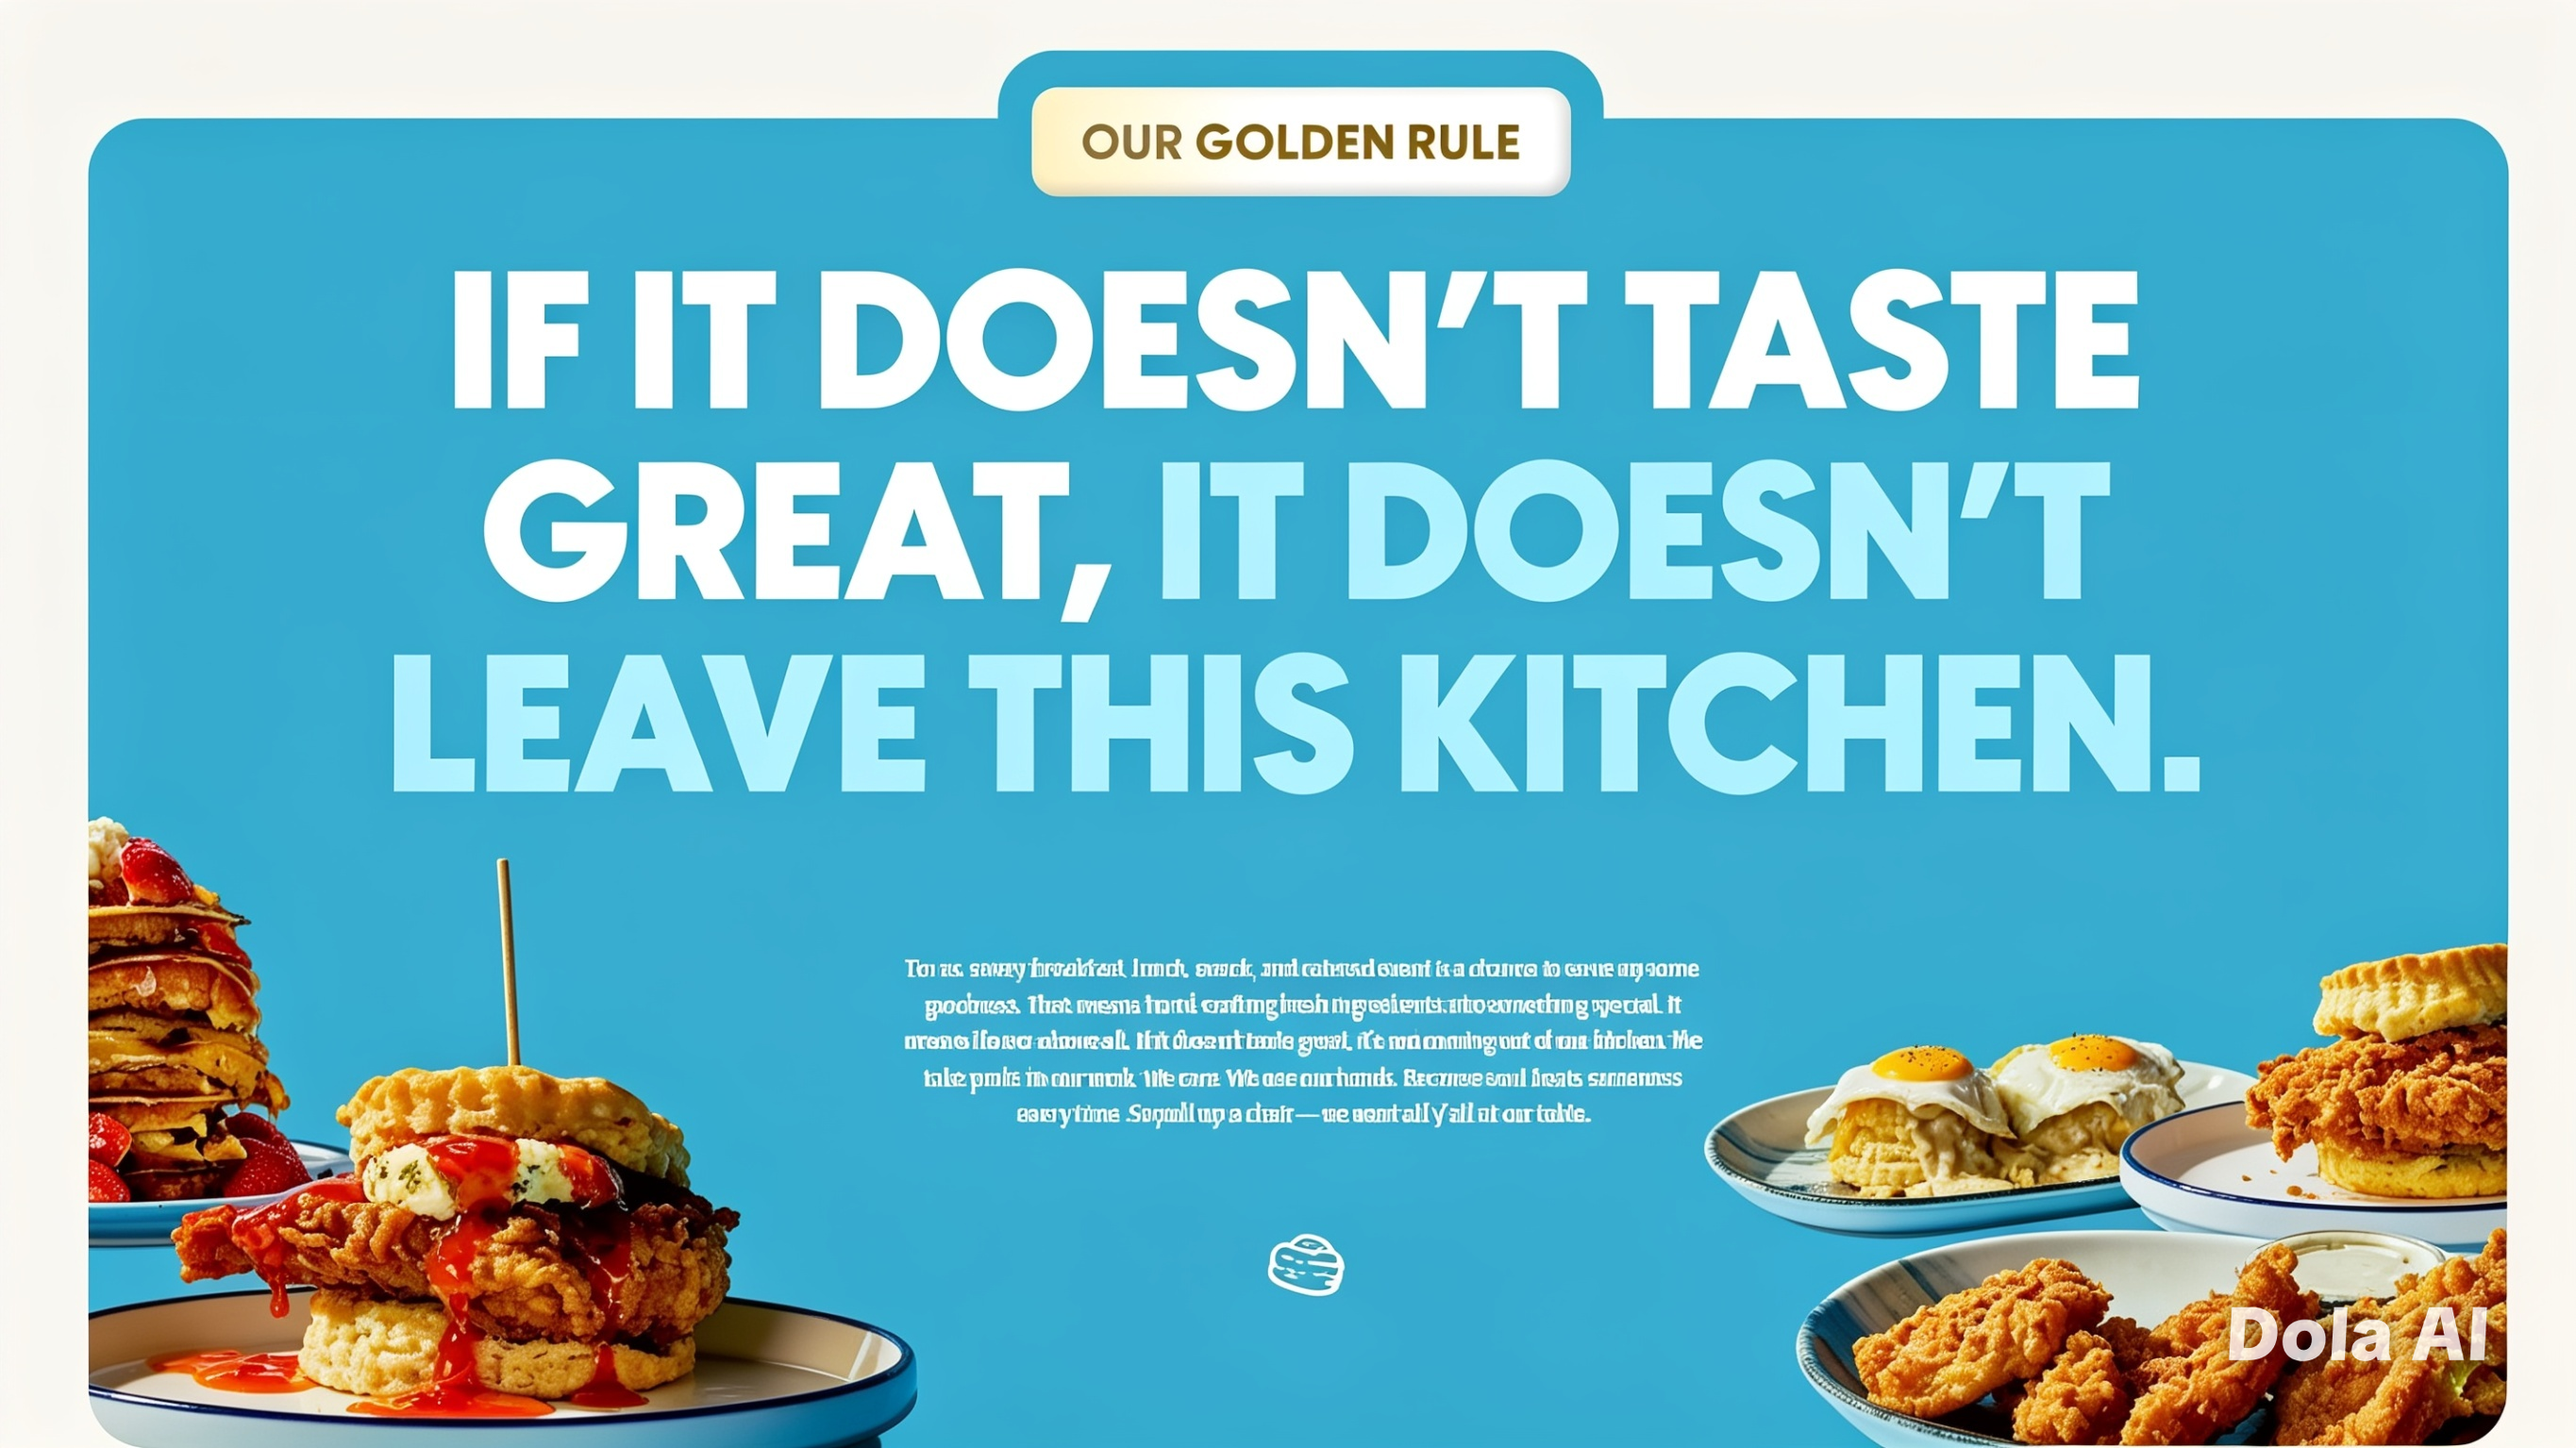
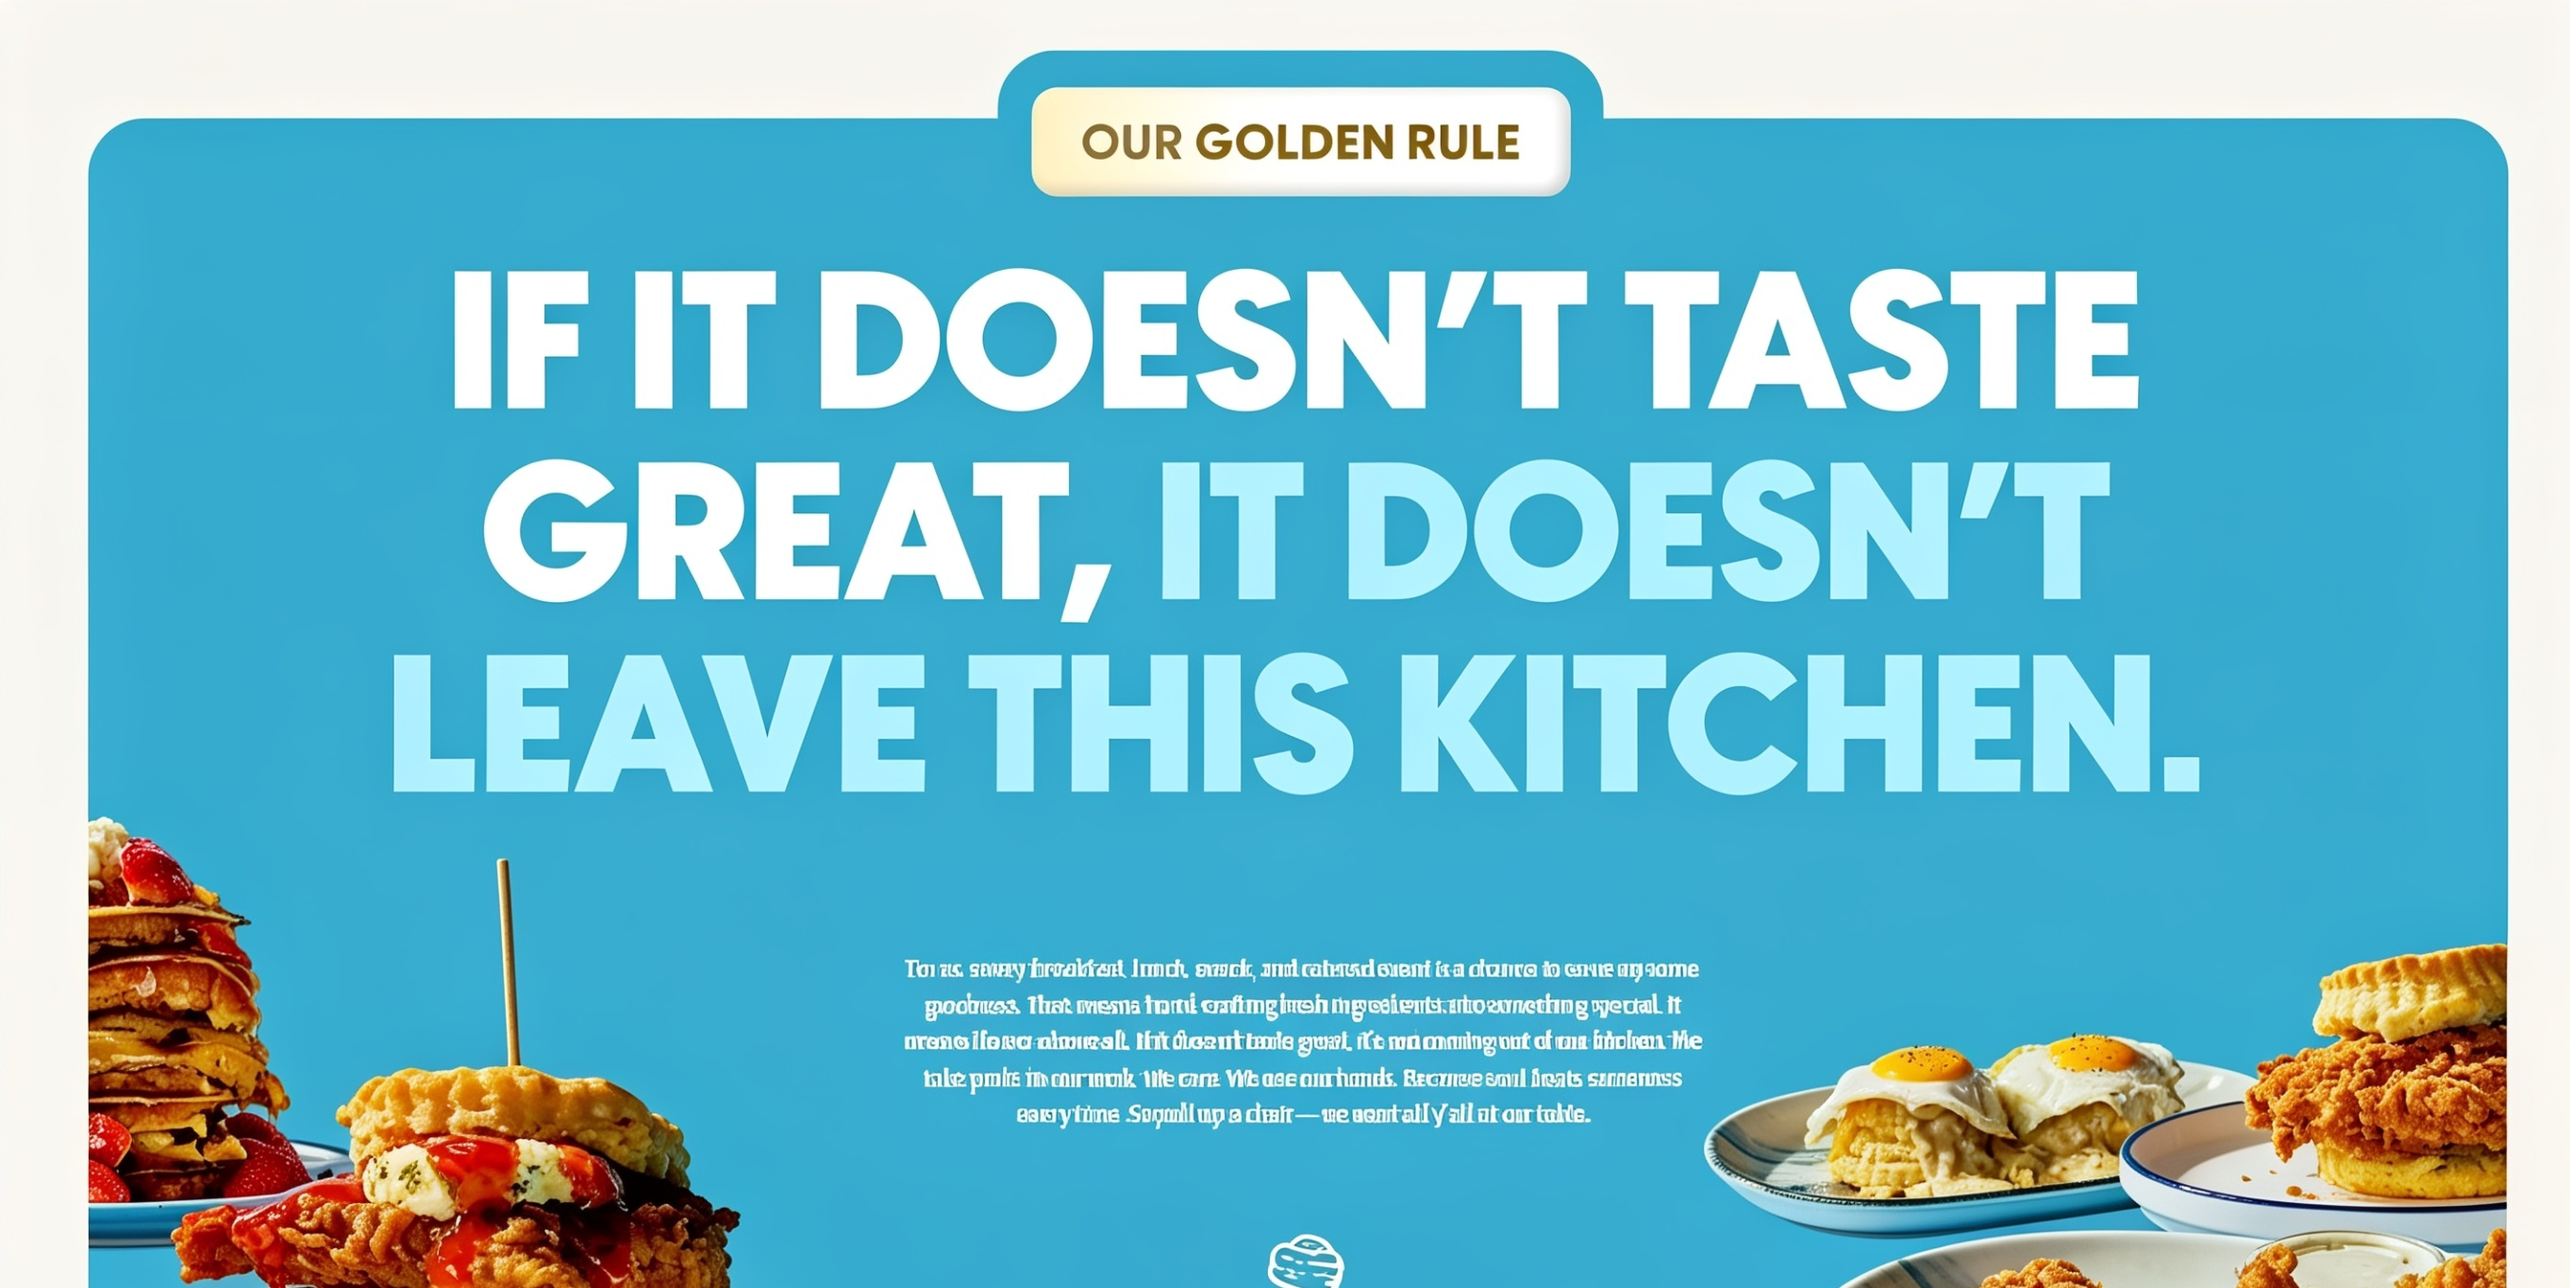
nice

diff --git a/src/style.css b/src/style.css
@@ -1,3 +1,11 @@
+#storypic{
+  display: flex;
+  justify-content: center;
+}
+#storyimg{
+  width: 80rem;
+  height: 70rem;
+}
 #All {
   gap: 20px;
   font-size: 15px;
@@ -23,7 +31,7 @@
 #Story {
   display: flex;
   justify-content: center;
-  background-color: rgb(223, 216, 216);
+  background-color: #F9F6F0;
   flex-direction: column;
   
 }

diff --git a/src/components/Story.vue b/src/components/Story.vue
@@ -16,7 +16,8 @@
             <button id="All">DRINKS</button>
         </div>
 
-        <div>
+        <div id="storypic">
+            <img id="storyimg" src="../assets/images/dols.png" alt="">
             <img src="../assets/images/" alt="">
         </div>
     </div>
